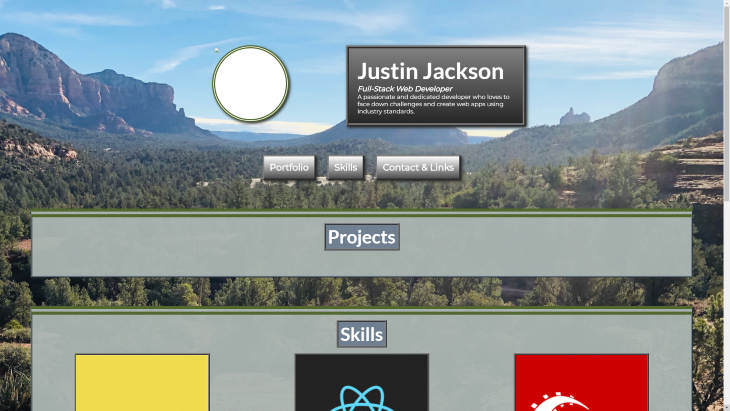
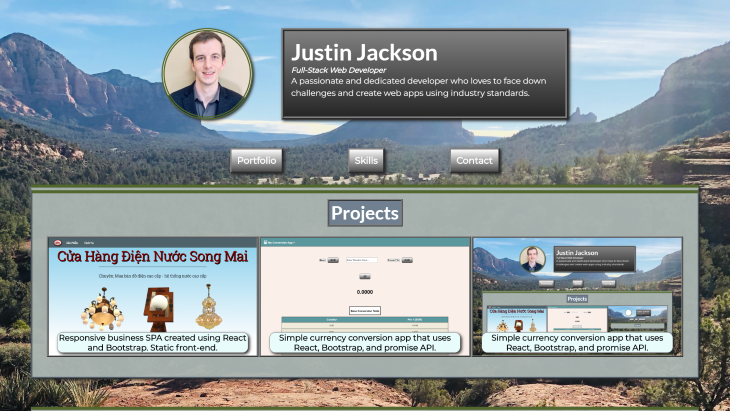
finished site and ready to deploy

diff --git a/style.css b/style.css
@@ -45,7 +45,7 @@ body {
   background-position: right;
   background-repeat: no-repeat;
   background-attachment: fixed;
-  padding: 50px 5px;
+  padding: 10px 5px;
 }
 
 button {
@@ -128,7 +128,7 @@ img {
 
 /*  Header  */
 header {
-  padding: 100px 0;
+  padding: 40px 0;
   max-width: 100%;
 }
 
@@ -148,7 +148,6 @@ header {
 }
 
 .text-wrapper {
-  width: 75%;
   display: flex;
   color: white;
   background-image: linear-gradient(to bottom, grey, hsl(0, 0%, 15%));
@@ -161,10 +160,6 @@ header {
 /*  Nav  */
 nav {
   margin-top: 100px;
-}
-
-.nav-link {
-  margin: 0;
 }
 
 
@@ -181,8 +176,8 @@ figure {
 
 figcaption {
   display: block;
-  max-width: 95%;
-  font-size: 1em;
+  max-width: 90%;
+  font-size: .8em;
   font-weight: bold;
   position: absolute;
   bottom: 15px;
@@ -194,6 +189,7 @@ figcaption {
 
 /*  Skills  */
 #Skills {
+  padding: 20px;
 }
 
 #Skills .title {
@@ -201,10 +197,11 @@ figcaption {
 }
 
 .skill-card {
-  align-items: flex-start;
-  width: 100%;
+  width: 95%;
   background-color: #ddd;
   justify-content: flex-start;
+  padding: 0;
+  margin: 0;
 }
 
 .skill-card img {
@@ -212,47 +209,47 @@ figcaption {
   border-bottom: 30px double white;
 }
 
+.skill-title {
+  max-width: 95%;
+  display: block;
+  margin: 20px 50px;
+}
+
 #JS img {
   border-bottom-color: #323330;
 }
 
 #React {
-  margin: 30px 0;
+  margin: 20px 0;
 }
 
 #React img {
   border-bottom-color: #61d9fa;
 }
 
-.skill-title {
-  max-width: 95%;
-  display: block;
-  margin: 20px auto;
-}
-
 ul {
   padding-top: 0;
   margin-top: 0;
-  padding-left: 35px;
   line-height: 1.5em;
 }
 
-#Rails ul {
-  display: none;
-}
 
 /*  About  */
 
 #About {
-  width: 50%;
+  width: 85%;
   text-align: center;
-  margin: 30px 0;
+  margin: 30px 0 50px 0;
 }
 
 #More {
   display: inline;
   color: white;
-  font-size: 1em;
+  font-size: .8em;
+}
+
+ #More:hover {
+  cursor: pointer;
 }
 
 
@@ -266,19 +263,52 @@ ul {
   color: white;
   text-shadow: 0 4px 4px black;
   font-weight: bold;
-  margin: 0 20px;
+  margin: 0 5px;
+  font-size: 1em;
 }
 
 .contact-btn i {
   font-size: 1.4em;
   position: relative;
-  top: 5px;
+  top: 0;
 }
 
 @media (min-width: 768px) {
   button {
     font-size: 2em;
+    padding: 10px;
+
   }
+
+  .img-wrapper {
+    width: 300px;
+    height: 300px;
+    border: 10px double #51672d;
+  }
+
+  figcaption {
+    font-size: 1.8em;
+  }
+
+  #Skills .responsive-flex {
+    flex-direction: row;
+    justify-content: space-around;
+  }
+
+  .skill-card {
+    align-items: flex-start;
+    width: 32%;
+  }
+
+  .skill-title {
+    font-size: 1.8em;
+    margin: 15px 30px;
+  }
+
+  #React {
+    margin: 0;
+  }
+
 }
 
 @media (min-width: 1024px) {
@@ -286,6 +316,26 @@ ul {
     padding: 50px 100px;
   }
 
+  .responsive-flex {
+    flex-direction: row;
+    justify-content: space-around;
+  }
+
+  .img-wrapper {
+    width: 300px;
+    height: 300px;
+    margin: 0 0 0 auto;
+    border: 10px double #51672d;
+  }
+
+  .text-wrapper {
+    margin: 0 auto 0 100px;
+    width: 40%;
+  }
+
+  button {
+    padding: 20px;
+  }
 
 }
 
@@ -294,16 +344,8 @@ ul {
     padding: 0 50px 50px 50px;
   }
 
-  .responsive-flex {
-    flex-direction: row;
-  }
-
   header .row {
-    justify-content: center;
-  }
-
-  figcaption {
-    font-size: 1.6em;
+    width: 50%;
   }
 
   h1 {
@@ -321,16 +363,10 @@ ul {
   }
 
   p {
-    font-size: 1.3em;
-    line-height: 1.5em;
+    font-size: 1.8em;
   }
 
   ul {
     font-size: 2em;
-  }
-
-  .skill-card {
-    align-items: flex-start;
-    width: 20%;
   }
 }

diff --git a/index.html b/index.html
@@ -32,7 +32,7 @@
       </nav>
     </header>
 
-    <section class="container" id="Projects">
+    <section class="container shadow" id="Projects">
       <h2 class="title head-font outset">Projects</h2>
       <div class="responsive-flex">
 
@@ -60,7 +60,7 @@
       </div>
     </section>
 
-    <section class="container" id="Skills">
+    <section class="container shadow" id="Skills">
       <h2 class="title outset head-font">Skills</h2>
       <div class="responsive-flex">
         <div class="container skill-card outset" id="JS">
@@ -85,15 +85,14 @@
           <img src="./images/ruby_on_rails.png" alt="">
           <h2 class="skill-title">Back-End Framework</h2>
           <ul>
-            <li><p></p></li>
-            <li><p></p></li>
-            <li><p></p></li>
+            <li><p>Ruby programming</p></li>
+            <li><p>Ruby-On-Rails</p></li>
           </ul>
         </div>
       </div>
     </section>
 
-    <section class="container" id="Contact">
+    <section class="container shadow" id="Contact">
       <h2 class="title outset head-font">Contact</h2>
       <div class="container" id="About">
         <h2>More About Me</h2>
@@ -102,7 +101,7 @@
         </div>
       </div>
 
-      <div class="responsive-flex">
+      <div class="row">
         <button type="button" class="contact-btn"><i class="fas fa-envelope-square"></i> Copy My Email</button>
         <a href="https://github.com/winteriscoming97" target="_blank" rel="noreferrer"><button type="button" class="contact-btn"><i class="fab fa-github-square"></i> Github</button></a>
         <a href="https://www.linkedin.com/in/justin-j-8a64471a9/" target="_blank" rel="noreferrer"><button type="button" class="contact-btn"><i class="fab fa-linkedin"></i> LinkedIn</button></a>
